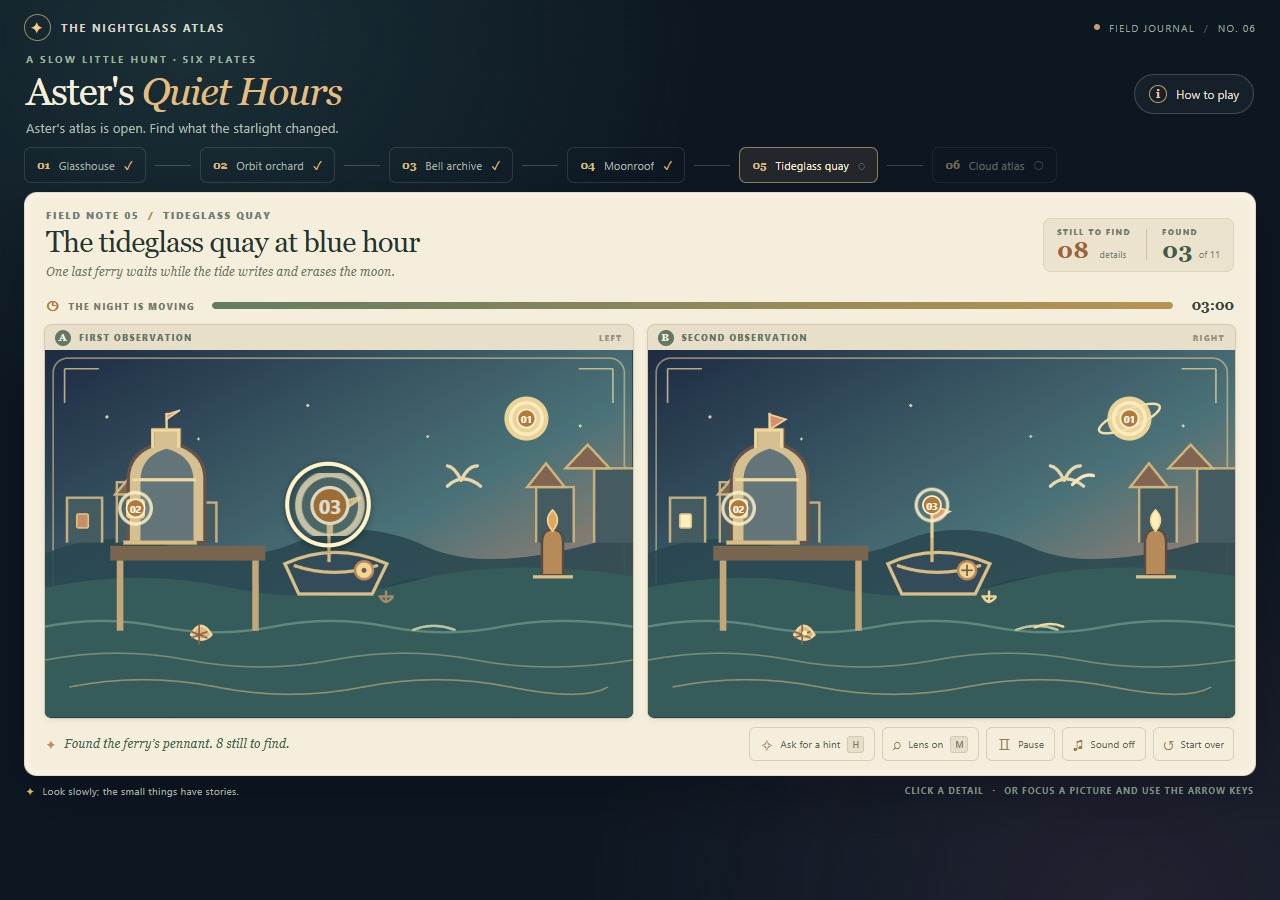
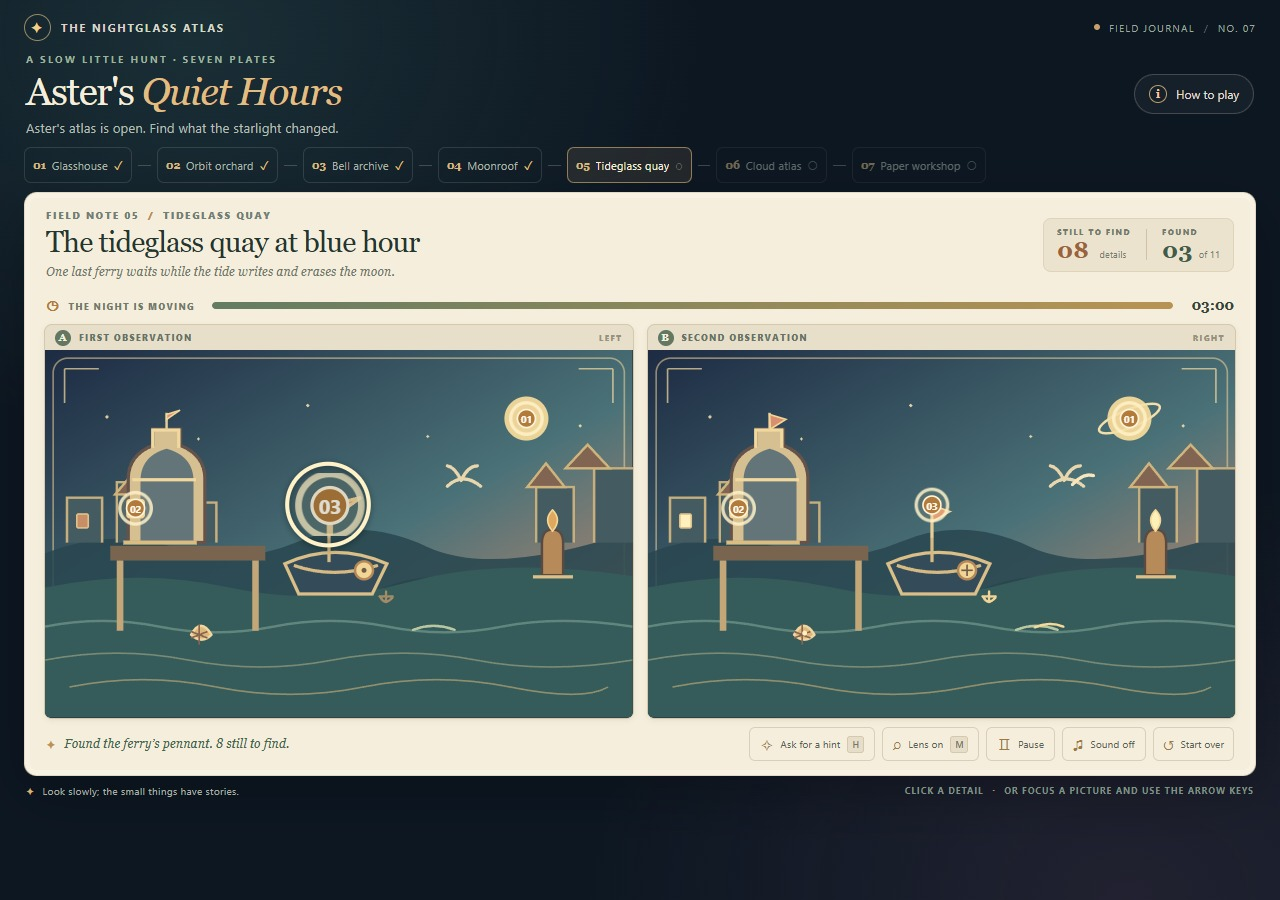
Add paper workshop chapter

diff --git a/game/src/scene-art.js b/game/src/scene-art.js
@@ -288,9 +288,53 @@ function drawMaproom(alternate, prefix) {
   `;
 }
 
+function drawWorkshop(alternate, prefix) {
+  return `
+    ${skyAndFrame(prefix, ['#282744', '#695c70', '#d58b68'])}
+    ${star(78,82,2.5)}${star(145,124,alternate ? 3 : 2)}${star(331,68,2)}${star(454,103,2.3,.75)}
+    <path d="M0 285Q114 254 231 283T473 270T720 283V450H0Z" fill="#293e48" opacity=".86"/>
+    <circle cx="605" cy="83" r="27" fill="#f2d89a" opacity=".95"/>
+    ${alternate ? '<ellipse cx="605" cy="83" rx="42" ry="10" fill="none" stroke="#f1d69a" stroke-width="3" transform="rotate(-23 605 83)"/>' : ''}
+    <path d="M49 260V149q0-74 103-95 105 21 105 95v111" fill="#344b55" stroke="#d3ba82" stroke-width="8"/>
+    <path d="M70 259V151q0-57 82-78 82 21 82 78v108" fill="#526977" stroke="#a78f68" stroke-width="4"/>
+    <path d="M152 75v184M72 171h160" stroke="#d0b985" stroke-width="4"/>
+    <path d="M93 258v-54q0-40 59-54 58 14 58 54v54" fill="#293f4d" stroke="#c6ac78" stroke-width="3"/>
+    <path d="M123 213q28-16 58 0" fill="none" stroke="#e4c990" stroke-width="3"/>
+    <path d="M275 28v72m-21 0h42m-35 0 14 13 14-13" fill="none" stroke="#d8bd85" stroke-width="3"/>
+    <circle cx="275" cy="112" r="${alternate ? 5 : 3}" fill="#f3d99c" stroke="#8d7152" stroke-width="2"/>
+    <path d="M445 104h110v135H445Z" fill="#40545c" stroke="#d5bb84" stroke-width="6"/>
+    <circle cx="524" cy="168" r="36" fill="#d7bf8d" stroke="#5f5146" stroke-width="5"/>
+    <circle cx="524" cy="168" r="28" fill="#354b54" stroke="#f0dba4" stroke-width="2"/>
+    <path d="M524 168 510 151M524 168l${alternate ? '17-7' : '8 18'}" stroke="#f3d99a" stroke-width="4" stroke-linecap="round"/>
+    <circle cx="524" cy="168" r="4" fill="#d9a85f"/>
+    <path d="M48 316h624l-24 24H70Z" fill="#9b704f" stroke="#543f3a" stroke-width="4"/>
+    <path d="M74 340v74m548-74v74M198 340v74m320-74v74" stroke="#684c40" stroke-width="8"/>
+    <path d="M87 352h72v42H87Z" fill="#5c5549" stroke="#c8a976" stroke-width="3"/>
+    <path d="M96 363v-14m14 14v-19m14 19v-12m14 12v-17" stroke="#aac08a" stroke-width="3" stroke-linecap="round"/>
+    <path d="M91 354q-9-16 0-25 9 9 0 25Z" fill="#d97f69"/><path d="M91 352q-15-12-17-3 8 12 17 3m0-1q15-14 19-4-8 12-19 4" fill="#d97f69"/>
+    ${alternate ? '<path d="M91 344q-9-16 0-25 9 9 0 25Z" fill="#f0c777"/>' : ''}
+    <path d="M143 282 184 224" stroke="#c49b62" stroke-width="13" stroke-linecap="round"/><path d="M143 282 184 224" stroke="#f0d8a0" stroke-width="3"/>
+    <circle cx="169" cy="281" r="13" fill="${alternate ? '#84bcc0' : '#526a72'}" stroke="#eed99f" stroke-width="4"/><circle cx="169" cy="281" r="4" fill="#fff0c0" opacity=".86"/>
+    <path d="M136 293h67m-49 0 12 23m28-77 20-22" stroke="#d3b780" stroke-width="4" stroke-linecap="round"/>
+    <path d="M255 261v-25m-8 0q0-13 13-13t13 13q0 8-13 8v17m-8 0h16" fill="none" stroke="#e2c587" stroke-width="4" stroke-linecap="round"/>
+    ${alternate ? '<circle cx="260" cy="234" r="5" fill="none" stroke="#fff0bd" stroke-width="2"/>' : ''}
+    <path d="M318 241q34-49 70-11 31-32 65 2-40 5-66 34-29-19-69-25Z" fill="#ead5a6" stroke="#715b4b" stroke-width="4" stroke-linejoin="round"/>
+    <path d="M355 239q31-4 54 18m-35-18q-8 14-6 26" fill="none" stroke="#9b7959" stroke-width="3"/>
+    ${alternate ? '<path d="M377 204q9-12 18 0" fill="none" stroke="#bf805e" stroke-width="3"/>' : ''}
+    <path d="M421 351q24-18 48 0l-24 24Z" fill="#d8c38d" stroke="#715846" stroke-width="3"/>
+    ${alternate ? '<path d="M445 342v18m-9-9h18m-15-6 12 12m0-12-12 12" stroke="#7c674f" stroke-width="2"/>' : '<circle cx="445" cy="351" r="3" fill="#8d7052"/>'}
+    <path d="M625 314v-36q0-16 13-16t13 16v36Z" fill="#b68150" stroke="#59473d" stroke-width="3"/>
+    <path d="M638 263q-13-13 0-26 13 13 0 26Z" fill="${alternate ? '#fff0bd' : '#e2aa60'}" stroke="#f5d99d" stroke-width="2"/>
+    <path d="M615 316h46" stroke="#d8be86" stroke-width="4"/>
+    <path d="M531 362h58v36h-58Z" fill="#517080" stroke="#d3b881" stroke-width="3"/>
+    <path d="M538 370h43" stroke="#d9bf88" stroke-width="3"/><path d="M560 362v-14l12 8-12 8Z" fill="${alternate ? '#e8c477' : '#c97962'}"/>
+    <path d="M382 402q74-18 148 0m66 0q22-9 44 0" fill="none" stroke="#cfb27c" stroke-width="2" opacity=".6"/>
+  `;
+}
+
 export function renderArtwork(plate, alternate = false, side = 'left') {
   const prefix = `${plate.id}-${side}`;
-  const renderers = { glasshouse: drawGlasshouse, orchard: drawOrchard, archive: drawArchive, moonroof: drawMoonroof, harbor: drawHarbor, maproom: drawMaproom };
+  const renderers = { glasshouse: drawGlasshouse, orchard: drawOrchard, archive: drawArchive, moonroof: drawMoonroof, harbor: drawHarbor, maproom: drawMaproom, workshop: drawWorkshop };
   return renderers[plate.id](alternate, prefix);
 }
 

diff --git a/game/styles/game.css b/game/styles/game.css
@@ -53,8 +53,8 @@ button:focus-visible, a:focus-visible {
 .field-note { display: inline-flex; min-height: 40px; align-items: center; gap: 9px; padding: 0 14px; color: #e2dfd1; background: rgba(255,255,255,.04); border: 1px solid rgba(229,221,199,.22); border-radius: 999px; cursor: pointer; font-size: .74rem; }
 .field-note-icon { display: grid; width: 18px; height: 18px; place-items: center; border: 1px solid #b89c6b; border-radius: 50%; color: #e8cf9f; font: 700 .7rem var(--serif); }
 
-.chapter-nav { gap: 9px; margin: 0 0 9px; }
-.chapter-button { min-width: 0; min-height: 36px; gap: 9px; padding: 0 12px; color: #aab5aa; background: transparent; border: 1px solid rgba(223, 224, 205, .14); border-radius: 7px; cursor: pointer; transition: border-color .18s ease, color .18s ease, background-color .18s ease; }
+.chapter-nav { gap: 6px; margin: 0 0 9px; }
+.chapter-button { min-width: 0; min-height: 36px; gap: 6px; padding: 0 8px; color: #aab5aa; background: transparent; border: 1px solid rgba(223, 224, 205, .14); border-radius: 7px; cursor: pointer; transition: border-color .18s ease, color .18s ease, background-color .18s ease; }
 .chapter-button:hover { color: #eee7d5; border-color: rgba(221, 186, 124, .55); }
 .chapter-button:disabled { opacity: .5; cursor: not-allowed; }
 .chapter-button.is-current { color: #f5eedc; background: rgba(198, 160, 108, .12); border-color: rgba(221, 186, 124, .58); }
@@ -62,7 +62,7 @@ button:focus-visible, a:focus-visible {
 .chapter-index { color: #d6b77e; font: 700 .67rem var(--serif); }
 .chapter-name { overflow: hidden; font-size: .68rem; letter-spacing: .02em; text-overflow: ellipsis; white-space: nowrap; }
 .chapter-mark { margin-left: auto; color: #68776e; font-size: .77rem; }
-.chapter-thread { width: clamp(10px, 3vw, 36px); height: 1px; flex: 0 0 auto; background: rgba(224, 218, 198, .23); }
+.chapter-thread { width: clamp(8px, 1vw, 14px); height: 1px; flex: 0 0 auto; background: rgba(224, 218, 198, .23); }
 
 .game-card { padding: 16px 19px 12px; color: var(--ink); background: var(--paper); border: 1px solid rgba(222, 211, 185, .8); border-radius: 13px; box-shadow: 0 18px 55px rgba(0,0,0,.25), inset 0 0 0 5px rgba(255,255,255,.26); }
 .plate-header { justify-content: space-between; gap: 22px; padding: 0 2px 9px; }
@@ -156,10 +156,10 @@ kbd { min-width: 17px; padding: 2px 4px; color: #777566; background: #e7deca; bo
   .intro { align-items: flex-end; }
   .intro-copy { max-width: 390px; }
   .edition { font-size: .52rem; }
-  .chapter-nav { gap: 5px; }
+  .chapter-nav { display: grid; grid-template-columns: repeat(4, minmax(0, 1fr)); gap: 5px; }
   .chapter-button { flex: 1; gap: 6px; padding-inline: 8px; }
   .chapter-name { font-size: .62rem; }
-  .chapter-thread { width: 9px; }
+  .chapter-thread { display: none; }
   .game-card { padding: 16px 14px 12px; }
   .plate-header { align-items: flex-start; gap: 10px; }
   .score-ribbon { gap: 9px; padding: 6px 8px; }

diff --git a/game/index.html b/game/index.html
@@ -4,7 +4,7 @@
     <meta charset="utf-8">
     <meta name="viewport" content="width=device-width, initial-scale=1">
     <meta name="theme-color" content="#101b27">
-    <meta name="description" content="An original illustrated spot-the-difference hunt through six quiet corners of the Nightglass Atlas.">
+    <meta name="description" content="An original illustrated spot-the-difference hunt through seven quiet corners of the Nightglass Atlas, with 61 differences to find.">
     <title>Aster's Quiet Hours — The Nightglass Atlas</title>
     <link rel="icon" href="data:,">
     <link rel="stylesheet" href="/styles/game.css">
@@ -16,12 +16,12 @@
           <span class="brand-seal" aria-hidden="true">✦</span>
           <span>THE NIGHTGLASS ATLAS</span>
         </a>
-        <div class="edition"><span class="edition-dot" aria-hidden="true"></span> FIELD JOURNAL <span class="edition-divider">/</span> NO. 06</div>
+        <div class="edition"><span class="edition-dot" aria-hidden="true"></span> FIELD JOURNAL <span class="edition-divider">/</span> NO. 07</div>
       </header>
 
       <section class="intro" aria-labelledby="game-title">
         <div>
-          <p class="eyebrow">A SLOW LITTLE HUNT <span aria-hidden="true">·</span> SIX PLATES</p>
+          <p class="eyebrow">A SLOW LITTLE HUNT <span aria-hidden="true">·</span> SEVEN PLATES</p>
           <h1 id="game-title">Aster's <em>Quiet Hours</em></h1>
           <p class="intro-copy">Aster's atlas is open. Find what the starlight changed.</p>
         </div>
@@ -54,6 +54,10 @@
         <span class="chapter-thread" aria-hidden="true"></span>
         <button class="chapter-button" type="button" data-chapter="5">
           <span class="chapter-index">06</span><span class="chapter-name">Cloud atlas</span><span class="chapter-mark" aria-hidden="true">○</span>
+        </button>
+        <span class="chapter-thread" aria-hidden="true"></span>
+        <button class="chapter-button" type="button" data-chapter="6">
+          <span class="chapter-index">07</span><span class="chapter-name">Paper workshop</span><span class="chapter-mark" aria-hidden="true">○</span>
         </button>
       </nav>
 
@@ -140,7 +144,7 @@
     <dialog class="journal-dialog finish-dialog" id="finishDialog" aria-labelledby="finishTitle">
       <p class="eyebrow">THE ATLAS IS COMPLETE</p>
       <h2 id="finishTitle">A quiet night, well observed.</h2>
-      <p id="finishSummary">You found every little change across the six plates.</p>
+      <p id="finishSummary">You found every little change across the seven plates.</p>
       <div class="finish-score"><span>FIELD NOTES COMPLETE</span><strong id="finalScore">0000</strong></div>
       <form method="dialog"><button class="dialog-done" id="playAgainButton">Read the atlas again</button></form>
     </dialog>

diff --git a/game/src/scene-data.js b/game/src/scene-data.js
@@ -103,6 +103,26 @@ export const PLATES = [
       { x: 218, y: 332, radius: 20, name: 'the brass map ruler' },
     ],
   },
+  {
+    id: 'workshop',
+    name: 'The paper astronomer’s workshop',
+    shortName: 'Paper workshop',
+    kicker: 'PAPER WORKSHOP',
+    story: 'Aster folds a bird to carry one last star. The workshop’s tools remember a different shape.',
+    differences: [
+      { x: 605, y: 83, radius: 24, name: 'the moon’s orbit' },
+      { x: 145, y: 124, radius: 22, name: 'the north star in the window' },
+      { x: 275, y: 112, radius: 22, name: 'a bead on the hanging mobile' },
+      { x: 524, y: 168, radius: 24, name: 'the clock’s minute hand' },
+      { x: 169, y: 281, radius: 23, name: 'the telescope’s blue lens' },
+      { x: 377, y: 204, radius: 23, name: 'a crease on the paper bird’s wing' },
+      { x: 91, y: 330, radius: 22, name: 'a petal in the tiny pot' },
+      { x: 260, y: 234, radius: 22, name: 'the bow of the brass key' },
+      { x: 444, y: 350, radius: 23, name: 'the compass rose on Aster’s map' },
+      { x: 638, y: 250, radius: 22, name: 'the candle flame' },
+      { x: 566, y: 372, radius: 22, name: 'the bookmark on the blue book' },
+    ],
+  },
 ];
 
 export const SECONDS_PER_PLATE = 180;

diff --git a/main.ts b/main.ts
@@ -19,7 +19,7 @@ import { buildDossier } from './vendor/makefun-game.ts';
 
 const here = fileURLToPath(new URL('.', import.meta.url));
 const out = process.env.MAKEFUN_OUTPUT_DIR ?? '/output';
-const gameplayProof = ['01-glasshouse.jpg', '02-bell-archive.jpg', '03-tideglass-quay.jpg', '04-cloud-atlas.jpg'];
+const gameplayProof = ['01-glasshouse.jpg', '02-bell-archive.jpg', '03-tideglass-quay.jpg', '04-paper-workshop.jpg'];
 for (const filename of gameplayProof) {
   if (!existsSync(join(here, 'screenshots', filename))) {
     throw new Error(`Missing required gameplay screenshot: ${filename}`);

diff --git a/README.md b/README.md
@@ -4,7 +4,7 @@
 [![rank](https://make.fun/badge/best-spot-the-difference-game-20261121-0451/gishou0930/nightglass-atlas-difference/rank.svg)](https://make.fun/bounty/best-spot-the-difference-game-20261121-0451/leaderboard?utm_source=github&utm_medium=readme&utm_campaign=best-spot-the-difference-game-20261121-0451)
 [![reward](https://make.fun/badge/best-spot-the-difference-game-20261121-0451/gishou0930/nightglass-atlas-difference/reward.svg)](https://make.fun/bounty/best-spot-the-difference-game-20261121-0451?utm_source=github&utm_medium=readme&utm_campaign=best-spot-the-difference-game-20261121-0451)
 
-An original illustrated spot-the-difference game across six quiet corners of the Nightglass Atlas, with 50 fair differences to find and a keyboard-friendly magnifier.
+An original illustrated spot-the-difference game across seven quiet corners of the Nightglass Atlas, with 61 fair differences to find and a keyboard-friendly magnifier.
 
 ## Run it
 
